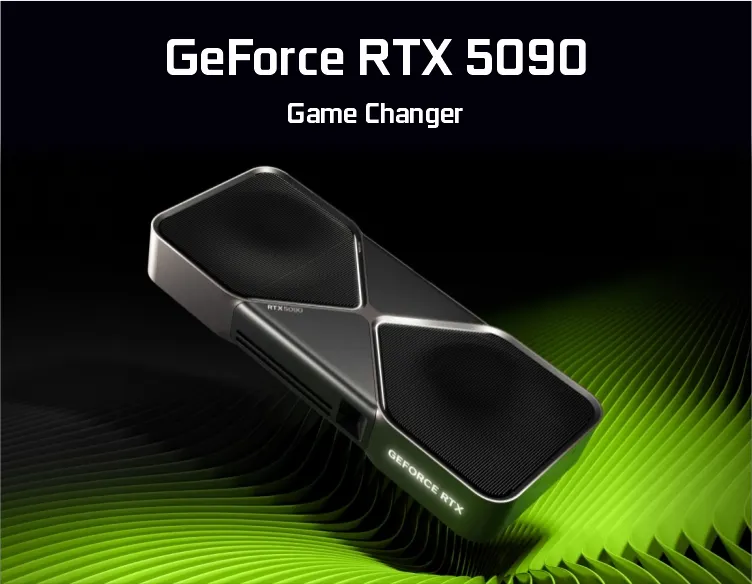
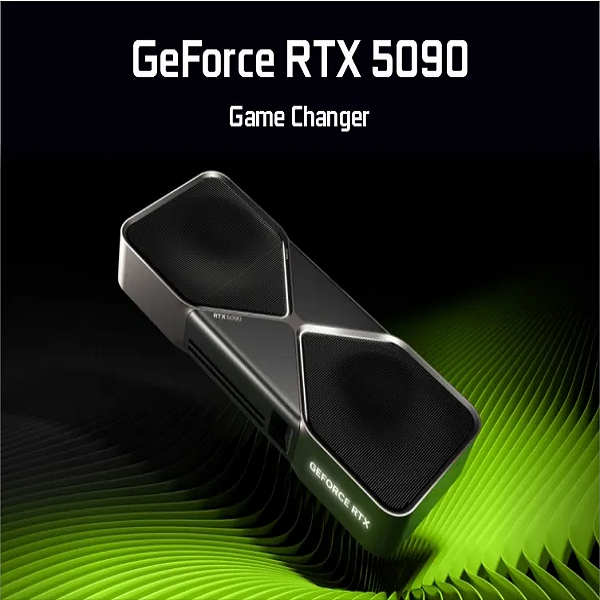
Some work done in header

diff --git a/style.css b/style.css
@@ -1,18 +1,43 @@
 
 /* WEBSITE */
 
+*{
+    margin: 0;
+    padding: 0;
+    box-sizing: border-box;
+}
+body{
+    margin: 0px;
+
+}
 .website{
     display: flex;
     flex-direction: column;
     flex-wrap: wrap;
-    gap: 25px;
 }
+
+/* HEADER */
+
 header{
     background-color: black;
     color: white;
     padding-left: 2rem;
-    padding-top: 3rem;
+    padding-top: 1rem;
+    width: 100%;
+    min-height: 55vh;
 }
 .Header-headings{
     font-family: 'Courier New', Courier, monospace;
+    font-size: clamp(1rem, 5vw, 3rem);
+    margin-top: 2rem;
+}
+.Header-para{
+    font-family: 'Courier New', Courier, monospace;
+    font-size: clamp(1rem, 2vw, 2rem);
+    margin-top: .5rem;
+}
+#Corely-mem{
+    font-family: 'Courier New', Courier, monospace;
+    font-size: clamp(1rem, 2vw, 2rem);
+    margin-top: 3rem;
 }

diff --git a/index.html b/index.html
@@ -11,7 +11,9 @@
     <div class="website">
 
         <header class="container-heading">
+            <h6 id="Corely-mem">Corely-mem Presents</h6>
             <h1 class="Header-headings">ABOUT THE BEST</h1>
+            <p class="Header-para">The Gold Standard of <br>PC Hardware</p>
         </header>
         
         <main></main>